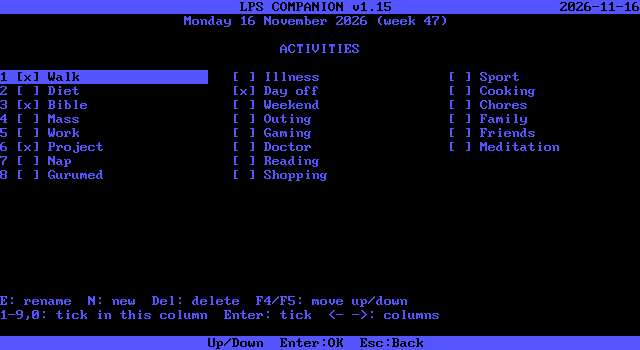
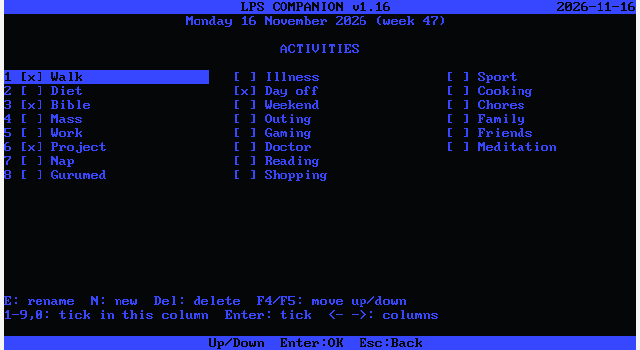
LPS116-CHG07: v1.16 title, docs, captures and regression

Changed region(s): [[0.0, 0.0, 1.0, 1.0], [0.6875, 0.2, 0.875, 0.4286], [0.4375, 0.1143, 0.5625, 0.1714]]

diff --git a/lps-companion/tests/test_storage.c b/lps-companion/tests/test_storage.c
@@ -171,7 +171,7 @@ static void check_menu_and_legacy_note(const char *tmpdir){
     assert(save_store(tmpdir,&s,&gen,&active));
     hw=plat_host_create(0); app_init(a,hw); app_start(a);
     assert(app_screen(a)==SCR_HOME);
-    assert(row_has(hw,0,"LPS COMPANION v1.15") && !strcmp(LPS_VERSION_STR,"1.15")); /* LPS-DOS-115-CHG12 */
+    assert(row_has(hw,0,"LPS COMPANION v1.16") && !strcmp(LPS_VERSION_STR,"1.16")); /* LPS116-CHG07 */
     for(i=0;i<9;i++) assert(strstr(plat_host_row(hw,7+(int)i),labels[i]));
     for(i=7;i<=17;i++) assert(!strstr(plat_host_row(hw,(int)i),"Config") && !strstr(plat_host_row(hw,(int)i),"9  "));
     assert(row_has(hw,24,"Up/Down  Enter:OK  Tab:Config"));
@@ -1437,9 +1437,9 @@ static void check_cga_fold(const char *dir){
     static unsigned char store[16384]; App *app=(App*)store; Platform *hw;
     char b[COLUMNS+1], o[41]; unsigned char rev[COLUMNS], orev[40]; int i;
     /* Centred title + date at the right edge, reversed end to end. */
-    row80(b,rev,1); memcpy(b+30,"LPS COMPANION v1.15",19); memcpy(b+70,"2026-11-16",10);
+    row80(b,rev,1); memcpy(b+30,"LPS COMPANION v1.16",19); memcpy(b+70,"2026-11-16",10);
     fold_text(b,rev,o,orev);
-    assert(!strcmp(o,"          LPS COMPANION v1.15 2026-11-16"));
+    assert(!strcmp(o,"          LPS COMPANION v1.16 2026-11-16"));
     for(i=0;i<40;i++) assert(orev[i]==1);
     /* Label on the left (indent halved), counter at the right edge, not reversed. */
     row80(b,rev,0); memcpy(b+1,"MEAL PLANNER",12); memcpy(b+79-9,"PLAYED #1",9);
@@ -1460,7 +1460,7 @@ static void check_cga_fold(const char *dir){
     hw->meal_open=fake_meal_open; hw->meal_card=fake_meal_card; hw->meal_close=fake_meal_close;
     fake_open_result=MEALS_OK; fake_card_result=MEALS_OK;
     app_key(app,' '); assert(app_screen(app)==SCR_MEAL_PLANNER);
-    fold_host_row(hw,0,o,orev); assert(!strncmp(o+10,"LPS COMPANION v1.15",19) && orev[0] && orev[39]);
+    fold_host_row(hw,0,o,orev); assert(!strncmp(o+10,"LPS COMPANION v1.16",19) && orev[0] && orev[39]);
     fold_host_row(hw,3,o,orev); assert(!strcmp(o,"MEAL PLANNER                            "));
     fold_host_row(hw,4,o,orev); assert(!strcmp(o,"Drinks 1/6                    16/16 left"));
     fold_host_row(hw,22,o,orev); assert(!strcmp(o,"        <- -> Card   Up/Down Row        "));
@@ -2755,7 +2755,7 @@ int main(void){
     check_kanban_focus(tmpdir);
     assert(orphan_hits>0); /* some edit took a name history had stored */
 
-    printf("%s", "PASS: storage, ICS (empty XP line), CSV, A/B, app close-day without XP, long date + ISO week 2000-2099, Daily Review full date (FR/EN, year-boundary weeks, CGA 40-col fold), Daily Review layout (focus, meals, next, archive, -- weight), Daily Review scroll (markers, clamp, reset, archive, overlays), Daily Review on archived-day menu (entry 3, read-only, Esc cursor), ROSARY.DAT load/missing/damaged, title v1.15, menu 0-8 without notepad or Config, archive menu 1-3, legacy note in ICS, timer 5/30/60 on keys 1-3, ICS 8.3 name YYYYMMDD.ICS, French CP437 screens + UTF-8 ICS, word wrap, JSON saves (round trip, PicoCalc fixtures byte-identical, BIN migration, damaged slot fallback,");
+    printf("%s", "PASS: storage, ICS (empty XP line), CSV, A/B, app close-day without XP, long date + ISO week 2000-2099, Daily Review full date (FR/EN, year-boundary weeks, CGA 40-col fold), Daily Review layout (focus, meals, next, archive, -- weight), Daily Review scroll (markers, clamp, reset, archive, overlays), Daily Review on archived-day menu (entry 3, read-only, Esc cursor), ROSARY.DAT load/missing/damaged, title v1.16, menu 0-8 without notepad or Config, archive menu 1-3, legacy note in ICS, timer 5/30/60 on keys 1-3, ICS 8.3 name YYYYMMDD.ICS, French CP437 screens + UTF-8 ICS, word wrap, JSON saves (round trip, PicoCalc fixtures byte-identical, BIN migration, damaged slot fallback,");
     printf("%s", " unknown keys, newer schema), activities (22 defaults, catalog from the save, 3 columns, keys per column, archive extras, 30 entries, pages), custom activities (rename per language, new, Del with confirm, F4/F5 wrap, frozen history, limits), top-row keys by BIOS scan code (AZERTY/US, keypad, text entry), accented tasks and reminders (32 UTF-8 bytes, PicoCalc fixture),");
     printf(" UTF-8 kept byte for byte (PicoCalc JSON/ICS/CSV with oe, A grave, euro, emoji), MEALS.DAT (13 pictures, checksums, damaged/missing), MEALSCGA.DAT (13 CGA pictures, colours, checksums, damaged/missing, EGA/CGA independent), Meal Planner (SPACE, wraps, play/put back, saves, archive read-only, new deck at close, text card, graphics hooks, FR, PicoCalc deck byte-identical),");
     printf(" Meal Planner CSV (MPYYMMDD.CSV byte-identical to PicoCalc, rules, failures, close day), TAB/SPACE overlays (identical return, text entry, Weight, confirmations, cross-open, archive, timer behind overlays + CSV), CGA 40-column fold (title/date, label/counter, blocks, overflow, reverse, planner rows EN/FR, MEALSCGA.DAT messages), CGA played card (checkerboard grey-out masks, PLAYED/JOUEE label sizes), Kanban focus (F toggle, * marker, cleared on DONE, kept on reorder/move, JSON focus:true, wire unchanged), fixture decode (%u captures)\n", 0);

diff --git a/lps-companion/tools/capture_drive.c b/lps-companion/tools/capture_drive.c
@@ -23,11 +23,21 @@ int main(void){
     app=(App*)store; app_init(app,hw); app_start(app);
     snap(hw,"01-home-en");
     app_key(app,'1'); snap(hw,"02-activities");
-    app_key(app,KEY_ESCAPE); app_key(app,'3'); snap(hw,"03-kanban");
+    app_key(app,KEY_ESCAPE); app_key(app,'3');
+    app_key(app,'n');
+    { const char *s="Focus card"; while(*s) app_key(app,(unsigned char)*s++); }
+    app_key(app,KEY_ENTER);
+    app_key(app,'f');
+    snap(hw,"03-kanban");
     app_key(app,KEY_ESCAPE); app_key(app,'4'); snap(hw,"04-rosary-mode");
     app_key(app,KEY_ESCAPE); app_key(app,'7'); snap(hw,"05-timer");
+    app_key(app,KEY_ESCAPE); app_key(app,'5'); snap(hw,"12-daily-review");
     /* Config (TAB, LPS-DOS-115-CHG10): 1 Language, 2 Francais, 4 Save */
     app_key(app,KEY_ESCAPE); app_key(app,KEY_TAB); app_key(app,'1'); app_key(app,'2');
     app_key(app,'4'); /* save FR */ snap(hw,"06-home-fr");
+    /* Close the day so the archive menu and archived review can be snapped. */
+    app_key(app,'8'); app_key(app,KEY_ENTER); app_key(app,KEY_ENTER);
+    app_key(app,KEY_LEFT); snap(hw,"13-archive-menu");
+    app_key(app,'3'); snap(hw,"14-archive-review");
     return 0;
 }

diff --git a/lps-companion/src/lps.h b/lps-companion/src/lps.h
@@ -1,4 +1,4 @@
-/* LPS Companion MS-DOS port - shared types (Companion v1.15 parity). C89. */
+/* LPS Companion MS-DOS port - shared types (v1.16; PicoCalc v1.15 files). C89. */
 #ifndef LPS_H
 #define LPS_H
 
@@ -15,7 +15,7 @@ typedef unsigned long  lps_tick_t;
 typedef uint64_t lps_tick_t;
 #endif
 
-#define LPS_VERSION_STR "1.15" /* LPS-DOS-115-CHG12, as PicoCalc LPS-115-CHG06 */
+#define LPS_VERSION_STR "1.16" /* LPS116-CHG07 */
 #define NOTE_LENGTH 96 /* legacy notes: kept in SAVE and ICS, no editor since LPS-DOS-115-CHG02 */
 #define HISTORY_LENGTH 31
 #define TASK_NAME_LENGTH 32

diff --git a/lps-companion/README.md b/lps-companion/README.md
@@ -2,7 +2,7 @@
 
 **English** | [Francais](#lps-companion-pour-ms-dos)
 
-A full port of [LPS Companion v1.15](https://github.com/TME520/LPS-Companion-PicoCalc) (PicoCalc) to real-mode 16-bit MS-DOS
+A full port of [LPS Companion v1.15](https://github.com/TME520/LPS-Companion-PicoCalc) (PicoCalc) to real-mode 16-bit MS-DOS, now at **v1.16**
 for Intel **8088**-class PCs with **640 KB** conventional memory. Keyboard only
 (no mouse). Text mode **80×25** (content laid out in 40 columns, same as the
 Companion). Data lives under `C:\LPS\` by default and uses the **same**
@@ -270,6 +270,19 @@ The last CGA change. A full regression run with the root files of this commit, i
   | TAB → Config / → planner | 0.17 / 0.33 s | 0.17 / 0.39 s | 0.11 / 0.11 s |
   | Esc, planner → Home (save + CSV) | 0.72 s | 0.72 s | 0.66 s |
 
+### Version 1.16 (LPS116-CHG07)
+
+The title bar and the start-up banner read **LPS COMPANION v1.16**. File compatibility with PicoCalc v1.15 is unchanged when no card is focused: JSON saves, ICS, the weights CSV and the Meal Planner CSV stay byte-identical. The screenshots in `captures/` were taken again under DOSBox (`cputype=8086`, `cycles=fixed 300`) with v1.16. The Book 8088 checklist is [`BOOK8088-TEST.md`](BOOK8088-TEST.md).
+
+**Kanban focus** (LPS116-FEAT01): **F** toggles focus on the selected card. A focused card shows a `*` before its name. Moving a card to DONE clears focus; **F** on a DONE card does nothing. Focus is a way to highlight priority cards and lasts only as long as the cards. In the JSON save a focused card is written as `"focus":true` after the name; an unfocused card stays in the v1.15 form, so a save with no focus is byte-identical to v1.15. PicoCalc v1.15 skips the unknown key and opens the file; a resave on the PicoCalc drops `"focus"`. Focus is not stored in archived days, not in the old `.BIN` wire, and not in the ICS or CSV exports.
+
+**Daily Review** (LPS116-FEAT02): the first line is the full date with the ISO week in the language in use, for example **Monday 16 November 2026 - Week 47** / **Lundi 16 novembre 2026 - Semaine 47** (weekday capitalised, French month in lowercase, no leading zero). Then **DAILY REVIEW** / **REVUE JOURNALIÈRE** (no short `YYYY-MM-DD` on the title), the day's actual weight as **Actual weight: 81.200 Kg** / **Poids effectif : 81.200 Kg** (or **-- Kg** if none), **KANBAN** and each focused card on its own line (**No focused card** / **Aucune carte en focus** if none), **MEAL PLANNER** / **PLANIFICATEUR DE REPAS** with **Drinks: 3/6**, **Food: 4/8**, **Blank: 1/2** (played/total; the deck has 6, 8 and 2 cards; French puts a space before the colon) and **Next: Light Cheese Wrap (Tea)** / **Prochain : Wrap fromage léger (Thé)** — the first unplayed Food card in deck order, then the first unplayed Drink in parentheses, using the planner's names, or **--** / **(--)** when a row is exhausted — then **ACTIVITIES** / **ACTIVITÉS** and one ticked activity per line (**No activity** / **Aucune activité** if none).
+
+When the list is longer than the 21 content rows, **Up/Down** move one line and do not wrap; **Left/Right** (as in v1.15), **PgUp** and **PgDn** move a page; **Home** / **End** jump to the ends. A CP437 arrow at the right of the first or last content row marks that more text sits above (↑) or below (↓). The footer reads **Up/Down: scroll** / **Haut/Bas : défiler** and the visible range only while scrolling is possible. Opening the review starts at the top; on today, TAB and SPACE overlays come back to the same place.
+
+An archived day has a third menu entry, **3 Daily review** / **3 Revue journalière** (PicoCalc v1.15 still has only 1–2). That review shows the archived day's full date, the archive banner, that day's weight, no KANBAN section, meal lines **--** (including **Next: --** / **Prochain : --**), and the frozen activity names (orphans as the archive shows them). Esc returns to the archived-day menu with the cursor on that entry. TAB and SPACE stay on the review and show the read-only notice. A per-day meal snapshot is postponed, so the meal lines of an archived day are always **--**, even if cards were played before the day was closed.
+
+
 ## Requirements
 
 - MS-DOS 3.3+ / FreeDOS / MS-DOS 7.x (FAT12/16)
@@ -291,8 +304,9 @@ The last CGA change. A full regression run with the root files of this commit, i
 | Notepad | Removed, as in v1.12 (legacy notes kept in SAVE and ICS) |
 | Weight expected/measured | Yes |
 | Kanban 24 tasks TODO/DOING/DONE | Yes |
+| Kanban focus (F, `*` marker, `"focus":true` in JSON) | Yes (LPS116-FEAT01; PicoCalc v1.15 reads the save and drops the key on resave) |
 | Christian Rosary (4 modes, FR/EN) | Yes (French accents in CP437) |
-| Daily review | Yes |
+| Daily review | Yes (v1.16 layout, ISO week, scroll, archive entry 3; LPS116-FEAT02) |
 | Config language EN/FR + 5 palettes, opened with TAB | Yes (text attributes; LPS-DOS-115-CHG10) |
 | Home entries shown/hidden (Config > Activities, `"homeHidden"`) | Yes (LPS-DOS-115-CHG10/CHG11) |
 | TAB/SPACE from every screen (Config, Meal Planner) | Yes (LPS-DOS-115-CHG09) |
@@ -472,7 +486,7 @@ Fixes kept in this tree:
   (`-k4096`), which is what `make dos` passes
 - Video: detect MDA vs CGA via BIOS equipment word + mode `0Fh`; use **B000**
   or **B800** accordingly; only set mode `03h`/`07h` if not already text
-- Early BIOS teletype banner (`LPS COMPANION v1.15` since LPS-DOS-115-CHG12) before dirs / UI
+- Early BIOS teletype banner (`LPS COMPANION v1.16` since LPS116-CHG07) before dirs / UI
 - Soft FP (`-fpc`) — no 8087 required
 - **`HELLO.EXE`** (built with `make hello`): tiny BIOS-only smoke test (prints mode / equipment)
 
@@ -653,10 +667,11 @@ byte-compatible with the firmware.
 - Saves are written when leaving a screen, confirming Date/Weight/Config, closing the day or quitting (**Q**), not after every change; the Meal Planner saves when it closes, not after each card. After a write DOS checks the CRC-32 only, not a full re-parse (8088 speed).
 - Meal Planner pictures are checked with a 32-bit sum instead of a CRC-32 (8088 speed). On CGA the planner is in 320×200 graphics with 4-colour dithered pictures (LPS-DOS-115-CHG14); a played card is greyed out by a checkerboard of the background colour, with PLAYED #n on a solid box (LPS-DOS-115-CHG15), where the EGA uses grey palette registers. Without colour EGA or CGA it is in text mode.
 - No low-battery warning (no such hardware). Config has no "SD import" entry: the DOS disk **is** the storage.
+- On an archived day the Daily Review has no KANBAN section and the meal lines show **--**; a per-day meal snapshot is postponed (LPS116-FEAT02). PicoCalc v1.15 still has only **1 Activities, 2 Weight tracker** on that menu; DOS v1.16 adds **3 Daily review**.
 
 ## Captures
 
-PNG screenshots under `captures/`, raw DOSBox grabs of v1.15 at 8088 speed (`cputype=8086`, `cycles=fixed 300`), checked pixel for pixel against the final EXE in LPS-DOS-115-CHG16. 01–09 are 640×350 (`machine=ega`, LPS-DOS-115-CHG12): Home EN/FR, Activities, Kanban, Rosary mode, Timer, a DOSBox Home grab and the EGA Meal Planner (EN, and FR with a played card); since LPS-DOS-115-CHG13 also two raw 320×200 grabs of the CGA planner (`machine=cga`), retaken with the `MEALSCGA.DAT` pictures in LPS-DOS-115-CHG14: `10-meal-planner-cga.png` (EN, Blue theme, Coffee (Latte)) and `11-meal-planner-cga-played-fr.png` (FR, Green theme, Biscuit played, greyed out as in LPS-DOS-115-CHG15). Text dumps are not stored; `make captures` rewrites
+PNG screenshots under `captures/`, raw DOSBox grabs of v1.16 at 8088 speed (`cputype=8086`, `cycles=fixed 300`), retaken in LPS116-CHG07. 01–09 are 640×350 (`machine=ega`): Home EN/FR, Activities, Kanban (with a focused card marked `*`), Rosary mode, Timer, a DOSBox Home grab and the EGA Meal Planner (EN, and FR with a played card). 10–11 are raw 320×200 CGA planner grabs: `10-meal-planner-cga.png` (EN, Blue theme, Coffee (Latte)) and `11-meal-planner-cga-played-fr.png` (FR, Green theme, Café (Latte) played, greyed out). 12–14 are 640×350 EGA: `12-daily-review.png` (the v1.16 layout), `13-archive-menu.png` (entries 1–3) and `14-archive-review.png`. Text dumps are not stored; `make captures` rewrites
 `captures/*.txt` from the host UI driver.
 
 ---
@@ -664,7 +679,7 @@ PNG screenshots under `captures/`, raw DOSBox grabs of v1.15 at 8088 speed (`cpu
 # LPS Companion pour MS-DOS
 
 Port complet de [LPS Companion v1.15](https://github.com/TME520/LPS-Companion-PicoCalc)
-vers MS-DOS 16 bits (8088, 640 Ko), clavier uniquement, mode texte 80×25.
+vers MS-DOS 16 bits (8088, 640 Ko), désormais en **v1.16**, clavier uniquement, mode texte 80×25.
 Memes formats `SAVE_A/B.JSN` (sauvegarde JSON, schema 2), ICS et CSV que le firmware PicoCalc v1.13 et suivants.
 
 Seul le nom du fichier ICS differe de la PicoCalc (LPS-DOS-115-CHG02c) : `EXPORT\YYYYMMDD.ICS`, par exemple `EXPORT\20260917.ICS`, au lieu de `YYYY-MM-DD_LPS-Companion.ics`. DOS ne garde que des noms 8.3 et coupait le nom long en `YYYY-MM-.ICS` : tous les jours d'un mois ecrasaient le meme fichier. Le contenu ne change pas, et les anciens fichiers deja dans `EXPORT\` restent en place. Sous Linux, un disque FAT affiche en general ces noms en majuscules : un lecteur qui ne cherche que `*.ics` ne les voit pas.
@@ -909,6 +924,19 @@ Dernière modification CGA. Passe de non-régression complète avec les fichiers
   | TAB → Config / → planificateur | 0,17 / 0,33 s | 0,17 / 0,39 s | 0,11 / 0,11 s |
   | Échap, planificateur → accueil (sauvegarde + CSV) | 0,72 s | 0,72 s | 0,66 s |
 
+### Version 1.16 (LPS116-CHG07)
+
+La barre de titre et la bannière de démarrage affichent **LPS COMPANION v1.16**. La compatibilité des fichiers avec la PicoCalc v1.15 est inchangée quand aucune carte n'est en focus : les sauvegardes JSON, l'ICS, le CSV des poids et le CSV du planificateur restent identiques à l'octet près. Les captures de `captures/` ont été refaites sous DOSBox (`cputype=8086`, `cycles=fixed 300`) avec la v1.16. La liste de tests pour le Book 8088 est dans [`BOOK8088-TEST.md`](BOOK8088-TEST.md).
+
+**Focus du Kanban** (LPS116-FEAT01) : **F** inverse le focus de la carte sélectionnée. Une carte en focus affiche un `*` devant son nom. La passer en FINI retire le focus ; **F** sur une carte FINI ne fait rien. Le focus sert à mettre en avant des cartes prioritaires et ne dure pas plus longtemps que les cartes. Dans la sauvegarde JSON, une carte en focus s'écrit `"focus":true` après le nom ; une carte sans focus garde la forme v1.15, donc une sauvegarde sans focus est identique à l'octet près à la v1.15. La PicoCalc v1.15 ignore la clé inconnue et ouvre le fichier ; une réécriture sur la PicoCalc retire `"focus"`. Le focus n'est pas stocké dans les jours archivés, ni dans l'ancien fil `.BIN`, ni dans les exports ICS ou CSV.
+
+**Revue journalière** (LPS116-FEAT02) : la première ligne est la date complète avec la semaine ISO dans la langue en cours, par exemple **Lundi 16 novembre 2026 - Semaine 47** / **Monday 16 November 2026 - Week 47** (jour capitalisé, mois français en minuscules, pas de zéro initial). Puis **REVUE JOURNALIÈRE** / **DAILY REVIEW** (sans le court `YYYY-MM-DD` sur le titre), le poids effectif du jour **Poids effectif : 81.200 Kg** / **Actual weight: 81.200 Kg** (ou **-- Kg** s'il manque), **KANBAN** et chaque carte en focus sur une ligne (**Aucune carte en focus** / **No focused card** s'il n'y en a pas), **PLANIFICATEUR DE REPAS** / **MEAL PLANNER** avec **Boissons : 3/6**, **Nourriture : 4/8**, **Blank : 1/2** (jouées/total ; le paquet a 6, 8 et 2 cartes ; l'anglais n'a pas d'espace avant le deux-points) et **Prochain : Wrap fromage léger (Thé)** / **Next: Light Cheese Wrap (Tea)** — la première carte Nourriture non jouée dans l'ordre du paquet, puis la première Boisson entre parenthèses, avec les noms du planificateur, ou **--** / **(--)** si une rangée est épuisée — puis **ACTIVITÉS** / **ACTIVITIES** et une activité cochée par ligne (**Aucune activité** / **No activity** s'il n'y en a pas).
+
+Quand la liste dépasse les 21 lignes utiles, **Haut/Bas** avancent d'une ligne sans boucler ; **Gauche/Droite** (comme en v1.15), **PgUp** et **PgDn** sautent une page ; **Début** / **Fin** vont aux extrémités. Une flèche CP437 à droite de la première ou de la dernière ligne utile indique qu'il reste du texte au-dessus (↑) ou en dessous (↓). Le pied affiche **Haut/Bas : défiler** / **Up/Down: scroll** et la plage visible seulement si le défilement est possible. Ouvrir la revue revient en haut ; pour le jour en cours, les calques TAB et ESPACE reviennent au même endroit.
+
+Un jour archivé a une troisième entrée de menu, **3 Revue journalière** / **3 Daily review** (la PicoCalc v1.15 n'a toujours que 1–2). Cette revue montre la date complète de ce jour, le bandeau d'archive, le poids du jour, pas de section KANBAN, les lignes de repas en **--** (y compris **Prochain : --** / **Next: --**), et les noms d'activités figés (orphelins comme l'archive les affiche). Échap ramène au menu du jour archivé, curseur sur cette entrée. TAB et ESPACE restent sur la revue et affichent l'avis de lecture seule. Une sauvegarde des repas par jour est reportée, donc les lignes de repas d'un jour archivé sont toujours **--**, même si des cartes ont été jouées avant la clôture.
+
+
 ## Configuration requise
 
 - MS-DOS 3.3+ / FreeDOS / MS-DOS 7.x (FAT12/16)
@@ -1053,10 +1081,14 @@ Depuis LPS-DOS-115-CHG03b, le segment DGROUP de 64 Ko (donnees proches + pile) p
 - Sauvegarde ecrite en quittant un ecran, en confirmant Date/Poids/Config, en
   cloturant le jour ou en quittant (**Q**), pas a chaque modification ; apres
   l'ecriture, DOS verifie le CRC-32 seulement, sans tout relire (vitesse 8088).
+- Sur un jour archivé, la Revue journalière n'a pas de section KANBAN et les lignes de repas affichent **--** ; une sauvegarde des repas par jour est reportée (LPS116-FEAT02). La PicoCalc v1.15 n'a toujours que **1 Activités, 2 Suivi du poids** sur ce menu ; DOS v1.16 ajoute **3 Revue journalière**.
 
 ## Captures
 
-Captures PNG dans `captures/`, prises brutes sous DOSBox de la v1.15 à la vitesse d'un 8088 (`cputype=8086`, `cycles=fixed 300`), vérifiées au pixel près avec l'EXE final dans LPS-DOS-115-CHG16 :
+Captures PNG dans `captures/`, prises brutes sous DOSBox de la v1.16 à la vitesse d'un 8088 (`cputype=8086`, `cycles=fixed 300`), refaites dans LPS116-CHG07 :
 
-- 01 à 09 : 640×350 (`machine=ega`) : accueil EN/FR, Activités, Kanban, mode du rosaire, minuteur, accueil sous DOSBox, planificateur EGA (EN, et FR avec une carte jouée).
-- 10 et 11 : 320×200 (`machine=cga`) : `10-meal-planner-cga.png` (EN, thème Bleu, Coffee (Latte)) et `11-meal-planner-cga-played-fr.png` (FR, thème Vert, Biscuit joué et grisé).
+- 01 à 09 : 640×350 (`machine=ega`) : accueil EN/FR, Activités, Kanban (avec une carte en focus marquée `*`), mode du rosaire, minuteur, accueil sous DOSBox, planificateur EGA (EN, et FR avec une carte jouée).
+- 10 et 11 : 320×200 (`machine=cga`) : `10-meal-planner-cga.png` (EN, thème Bleu, Coffee (Latte)) et `11-meal-planner-cga-played-fr.png` (FR, thème Vert, Café (Latte) joué et grisé).
+- 12 à 14 : 640×350 EGA : `12-daily-review.png` (présentation v1.16), `13-archive-menu.png` (entrées 1–3) et `14-archive-review.png`.
+
+Les dumps texte ne sont pas versionnés ; `make captures` réécrit `captures/*.txt` depuis le pilote d'interface hôte.

diff --git a/lps-companion/BOOK8088-TEST.md b/lps-companion/BOOK8088-TEST.md
@@ -1,9 +1,11 @@
-# Book 8088 – liste de tests sur le vrai materiel (LPS COMPANION v1.15)
+# Book 8088 – liste de tests sur le vrai materiel (LPS COMPANION v1.16)
 
 Tests a faire sur le Book 8088 (8088, ecran CGA) avec la version finale
-LPS-DOS-115-CHG16. Les temps de reference viennent de DOSBox Staging a la
-vitesse d'un 8088 (`cputype=8086`, `cycles=fixed 300`, section 7) ; noter le
-temps reel a cote. DOSBox lit le disque presque instantanement : sur le Book,
+LPS116-CHG07. Les temps de reference viennent de DOSBox Staging a la
+vitesse d'un 8088 (`cycles=fixed 300`, section 7) ; noter le
+temps reel a cote. DOSBox Staging 0.83.1 n'accepte pas `cputype=8086`
+ni `cputype=8088` et retombe sur `auto` : la vitesse est bien celle des
+300 cycles (4,77 MHz). DOSBox lit le disque presque instantanement : sur le Book,
 la premiere lecture d'un fichier prendra plus de temps.
 
 ## 1. Fichiers a copier
@@ -25,12 +27,12 @@ aller-retour PicoCalc, copier aussi `SAVE_A.JSN` / `SAVE_B.JSN` de la carte SD.
 
 | # | Test | Attendu | Ref. DOSBox | Resultat |
 |---|---|---|---|---|
-| 1 | Lancer `LPSCOMP` | banniere puis barre de titre **LPS COMPANION v1.15** | demarrage 0,77 s (petite sauvegarde) | |
+| 1 | Lancer `LPSCOMP` | banniere puis barre de titre **LPS COMPANION v1.16** | demarrage 0,77 s (petite sauvegarde) | |
 | 2 | Vitesse des touches : Bas sur l'accueil, cocher une activite, deplacer une tache Kanban | reponse sans attente visible, aucune touche perdue en tapant vite | Bas 0,17 s ; cocher 0,11 s | |
 | 3 | Chargement JSON au demarrage (sauvegarde courte, puis sauvegarde de 31 jours) | accueil affiche, donnees presentes | 0,8 s / 3,1 s | |
 | 4 | Ecriture JSON : quitter Activites (Echap), Config > 4 Enregistrer | pas d'erreur, `SAVE_A.JSN`/`SAVE_B.JSN` alternes | 0,7 s / 3,2 s (31 jours) | |
 | 5 | `KEYB FR` (AZERTY) | chiffres de la rangee du haut sans Maj (& é " ' ( - è _ ç à) sur l'accueil/Config ; taper é è ç à dans une tache Kanban | – | |
-| 6 | « Neige » CGA sur les ecrans texte (accueil, Kanban) en defilant vite | noter s'il y a des parasites ; aucun attendu en 320×200 | – | |
+| 6 | « Neige » CGA sur les ecrans texte (accueil, Kanban, Revue journaliere) en defilant vite | noter s'il y a des parasites ; aucun attendu en 320×200 | – | |
 | 7 | Tab / Espace depuis chaque ecran, Q pour quitter puis relancer | Config/planificateur s'ouvrent et se referment ; donnees conservees | – | |
 
 ## 3. Planificateur de repas en CGA (ecran du Book, LPS-DOS-115-CHG13/14/15)
@@ -53,25 +55,45 @@ aller-retour PicoCalc, copier aussi `SAVE_A.JSN` / `SAVE_B.JSN` de la carte SD.
 | E2 | EGA sans `MEALS.DAT` | planificateur en mode texte, message, pas de plantage | – | |
 | M1 | Ecran mono (MDA/Hercules) | planificateur en mode texte (« No EGA/CGA colour screen: Meal Planner in text mode »), PLAYED #n dans le cadre | ouverture 0,17 s ; touche 0,09–0,11 s | |
 
-## 5. Fichiers et aller-retour PicoCalc
+## 5. Focus du Kanban (LPS116-FEAT01)
+
+| # | Test | Attendu | Ref. DOSBox | Resultat |
+|---|---|---|---|---|
+| K1 | Kanban : F sur une carte A FAIRE ou EN COURS | un `*` s'affiche devant le nom ; F a nouveau l'enlève | – | |
+| K2 | Mettre une carte en focus, Echap (sauvegarde), Q, relancer | la carte est toujours en focus (`*` et `"focus":true` dans le JSON) | – | |
+| K3 | F3 pour passer une carte en focus vers FINI ; F sur une carte FINI | le focus disparait (plus de `*`) ; F sur FINI ne fait rien | – | |
+
+## 6. Revue journaliere (LPS116-FEAT02)
+
+| # | Test | Attendu | Ref. DOSBox | Resultat |
+|---|---|---|---|---|
+| R1 | 5 depuis l'accueil (jour en cours) | date complete et semaine ISO (`Monday 16 November 2026 - Week 47` / `Lundi 16 novembre 2026 - Semaine 47`) ; titre **DAILY REVIEW** / **REVUE JOURNALIÈRE** sans `YYYY-MM-DD` ; poids `Actual weight: … Kg` / `Poids effectif : … Kg` ou `-- Kg` ; section KANBAN avec les cartes en focus (ou `No focused card` / `Aucune carte en focus`) ; compteurs Boissons/Nourriture/Blank 6/8/2 et `Next:` / `Prochain :` (premiere Nourriture puis Boisson, ou `--`) ; activites cochees | ouverture, cas 67 lignes : 0,87 s (EGA), 0,83 s (CGA), 0,82 s (Hercules) | |
+| R2 | Liste plus longue que 21 lignes : Haut/Bas, PgUp/PgDn, Debut/Fin, Gauche/Droite | une ligne sans boucler ; page de 21 ; Debut en haut, Fin en bas ; fleches CP437 ↑/↓ a droite ; pied `Up/Down: scroll` / `Haut/Bas : défiler` et la plage (`1-21/67`) seulement s'il faut defiler | redessin, un pas Bas : 0,88 s (EGA), 0,83 s (CGA), 0,82 s (Hercules) | |
+| R3 | Jour archive : entree **3 Revue journaliere** / **3 Daily review**, puis cette revue | le menu a 3 entrees (la PicoCalc v1.15 n'en a que 1–2) ; date du jour archive, bandeau, poids du jour, pas de KANBAN, repas en `--` (y compris Prochain), activites figees ; Echap revient au menu, curseur sur 3 ; Tab/Espace restent en lecture seule | – | |
+
+## 7. Fichiers et aller-retour PicoCalc
 
 | # | Test | Attendu | Ref. DOSBox | Resultat |
 |---|---|---|---|---|
 | F1 | Export ICS : terminer le jour | `C:\LPS\EXPORT\YYYYMMDD.ICS` lisible, identique a celui de la PicoCalc pour le meme jour | – | |
 | F2 | CSV des poids : saisir un poids, terminer le jour | `C:\LPS\WEIGHTS\YYYY.csv` | – | |
 | F3 | CSV du planificateur : jouer une carte, quitter (Espace ou Echap) | `C:\LPS\EXPORT\MPYYMMDD.CSV` | – | |
-| F4 | Aller-retour PicoCalc : sauvegarde SD -> DOS, modifier (activite, carte), recopier sur la SD | la PicoCalc v1.15 ouvre la sauvegarde ; entrees masquees (Config > Activites), activites personnalisees et cartes jouees conservees | – | |
+| F4 | Aller-retour PicoCalc : sauvegarde SD -> DOS, modifier (activite, carte), recopier sur la SD (sans carte en focus) | la PicoCalc v1.15 ouvre la sauvegarde ; entrees masquees (Config > Activites), activites personnalisees et cartes jouees conservees ; fichiers identiques a l'octet pres | – | |
+| F5 | Sauvegarde DOS avec une carte en focus, ouverte sur la PicoCalc v1.15 | la PicoCalc ouvre le fichier (elle ignore `"focus"`) ; une reecriture sur la PicoCalc retire la cle | – | |
 
-## 6. A noter
+## 8. A noter
 
 Modele exact (CPU, carte video), version de DOS, type de disque (CF, disque
 dur), et tout caractere mal affiche (les capitales À È Ê Ô Â sont sans accent :
-normal).
+normal). Sur un jour archive, la revue n'a pas de KANBAN et les lignes de repas
+sont toujours `--` : une sauvegarde des repas par jour est reportee.
 
-## 7. Temps de reference DOSBox (LPS-DOS-115-CHG16)
+## 9. Temps de reference DOSBox (LPS116-CHG07)
 
-DOSBox Staging, `cputype=8086`, `cycles=fixed 300`, sauvegarde courte ;
-l'horloge avance par pas de 55 ms.
+DOSBox Staging 0.83.1, `cputype=auto`, `cycles=fixed 300`, sauvegarde courte ;
+l'horloge avance par pas de 55 ms. Les temps du planificateur (CHG16) n'ont pas
+ete remesures ; ceux de la revue journaliere (67 lignes, pire cas) l'ont ete
+dans LPS116-CHG07.
 
 | Action | EGA | CGA | Hercules (texte) |
 |---|---|---|---|
@@ -85,6 +107,8 @@ l'horloge avance par pas de 55 ms.
 | Aller sur une carte jouee | 0,22 s | 0,33 s | 0,11 s |
 | TAB → Config / → planificateur | 0,17 / 0,33 s | 0,17 / 0,39 s | 0,11 / 0,11 s |
 | Echap, planificateur → accueil (sauvegarde + CSV) | 0,72 s | 0,72 s | 0,66 s |
+| Ouvrir la revue journaliere (67 lignes) | 0,87 s | 0,83 s | 0,82 s |
+| Redessin, un pas de defilement (Bas) | 0,88 s | 0,83 s | 0,82 s |
 
 ---
 
@@ -92,10 +116,10 @@ l'horloge avance par pas de 55 ms.
 
 Copy `LPSCOMP.EXE` (109,116 B), `ROSARY.DAT` (10,217 B),
 `MEALS.DAT` (199,964 B) and `MEALSCGA.DAT` (49,996 B) into one folder; data
-goes to `C:\LPS\`. Check against the DOSBox 8088-speed reference times (section 7
+goes to `C:\LPS\`. Check against the DOSBox 8088-speed reference times (section 9
 above; DOSBox disk reads are near-instant, so real first reads take longer):
 
-1. Title bar **LPS COMPANION v1.15**; start-up 0.77 s with a short save, 3.1 s with 31 days.
+1. Title bar **LPS COMPANION v1.16**; start-up 0.77 s with a short save, 3.1 s with 31 days.
 2. Key speed: Home Down 0.17 s, a tick 0.11 s, no lost keys when typing fast; save on leaving Activities 0.7 s / 3.2 s.
 3. CGA Meal Planner (the Book's screen):
    - Space opens it in 0.55 s, with a dithered picture on every card from `MEALSCGA.DAT`.
@@ -106,6 +130,9 @@ above; DOSBox disk reads are near-instant, so real first reads take longer):
    - Note any CGA snow on the text screens.
 4. EGA/VGA, if available: EGA pictures, played card in grey. Mono: text-mode planner.
 5. `KEYB FR`: top-row digits unshifted, é è ç à typed in Kanban.
-6. Exports: `EXPORT\YYYYMMDD.ICS`, `WEIGHTS\YYYY.csv`, `EXPORT\MPYYMMDD.CSV`.
-7. PicoCalc round-trip: SD save -> DOS -> edit -> back to SD. It opens on the PicoCalc v1.15 with hidden Home entries, custom activities and played cards kept.
-8. Tab/Space from every screen; Q, restart, data kept.
+6. Kanban focus: **F** toggles a `*` before the name; Esc, Q, reload keeps it; moving the card to DONE clears it; **F** on DONE does nothing.
+7. Daily Review: full date and ISO week, counters 6/8/2, Next/Prochain, focused cards; Up/Down (one line, no wrap), PgUp/PgDn, Home/End, scroll markers and the range in the footer. Opening the 67-line worst case takes 0.87 s (EGA), 0.83 s (CGA), 0.82 s (Hercules); each Down step 0.88 / 0.83 / 0.82 s.
+8. Archived day: menu entry **3 Daily review** (PicoCalc v1.15 still has only 1–2); no KANBAN, meal lines `--`, Esc returns with the cursor on that entry.
+9. Exports: `EXPORT\YYYYMMDD.ICS`, `WEIGHTS\YYYY.csv`, `EXPORT\MPYYMMDD.CSV`.
+10. PicoCalc round-trip without focus: SD save -> DOS -> edit -> back to SD, byte-identical. A DOS save with `"focus":true` opens on PicoCalc v1.15; a PicoCalc resave drops the key.
+11. Tab/Space from every screen; Q, restart, data kept.

diff --git a/README.md b/README.md
@@ -18,6 +18,9 @@ Since LPS-DOS-115-CHG04 the data folder (`C:\LPS\`) holds the same JSON saves as
 
 Sources and rebuild instructions are in [`lps-companion/`](lps-companion/). A local `make dos rosary meals mealscga hello` writes new copies there; those copies stay untracked. The root files above are the ones to download.
 
+Version 1.16 (LPS116-CHG07) keeps PicoCalc v1.15 file compatibility when no Kanban card is focused, and adds **F** to focus a card (a `*` marker, `"focus":true` in the JSON; moving the card to DONE clears it; PicoCalc v1.15 reads the key and drops it on resave) and a rewritten Daily Review (full date and ISO week, focused cards, Meal Planner counters and Next/Prochain, Up/Down/PgUp/PgDn/Home/End scrolling, and **3 Daily review** on an archived day — a deliberate divergence from PicoCalc v1.15, which still has only 1–2). Archived days have no KANBAN section and show meal lines as **--**; a per-day meal snapshot is postponed. Details and the Book 8088 checklist are in [`lps-companion/README.md`](lps-companion/README.md) and [`lps-companion/BOOK8088-TEST.md`](lps-companion/BOOK8088-TEST.md).
+
+
 | Program | Directory | What it is |
 |---|---|---|
-| LPS Companion | [`lps-companion/`](lps-companion/) | MS-DOS port of [LPS Companion v1.15](https://github.com/TME520/LPS-Companion-PicoCalc) (Open Watcom, real-mode 8086, 80×25 text, EGA and CGA Meal Planner). Run [`LPSCOMP.EXE`](LPSCOMP.EXE) (with [`ROSARY.DAT`](ROSARY.DAT), [`MEALS.DAT`](MEALS.DAT) and [`MEALSCGA.DAT`](MEALSCGA.DAT) beside it) and [`HELLO.EXE`](HELLO.EXE) from this repository root. |
+| LPS Companion | [`lps-companion/`](lps-companion/) | MS-DOS port of [LPS Companion](https://github.com/TME520/LPS-Companion-PicoCalc), now at **v1.16** (PicoCalc v1.15 files; Open Watcom, real-mode 8086, 80×25 text, EGA and CGA Meal Planner). Run [`LPSCOMP.EXE`](LPSCOMP.EXE) (with [`ROSARY.DAT`](ROSARY.DAT), [`MEALS.DAT`](MEALS.DAT) and [`MEALSCGA.DAT`](MEALSCGA.DAT) beside it) and [`HELLO.EXE`](HELLO.EXE) from this repository root. |
